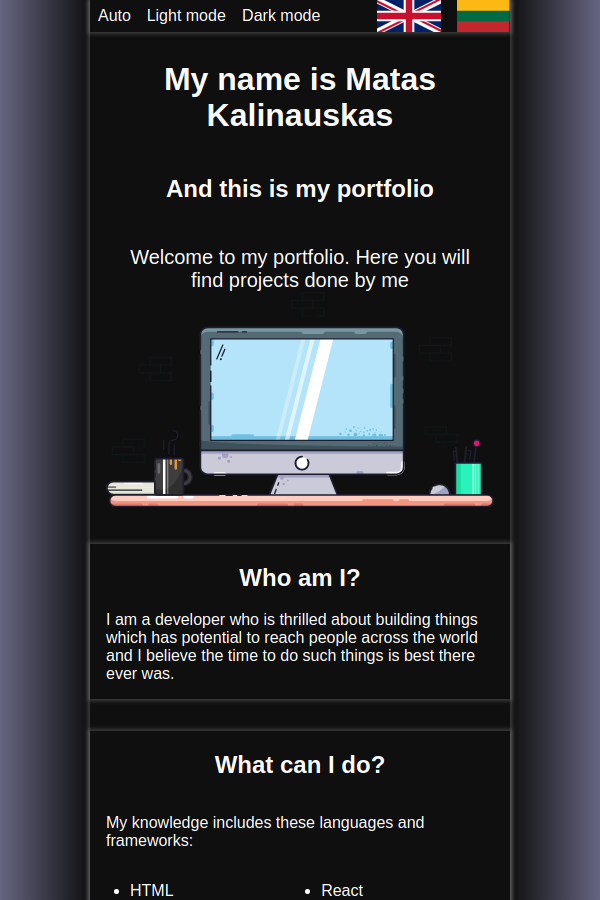
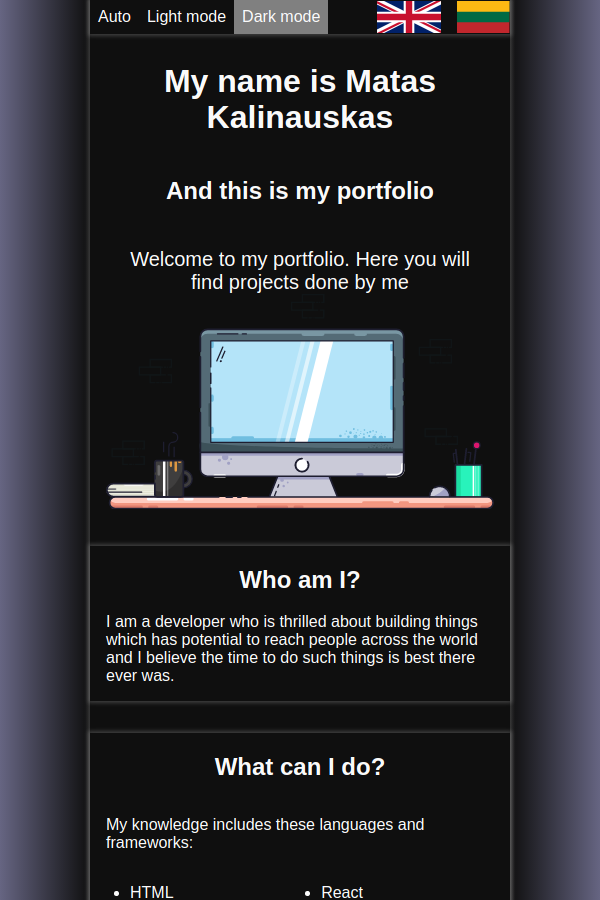
Added a way to discern which style is active, minor fixes

diff --git a/src/App.js b/src/App.js
@@ -18,6 +18,8 @@ class App extends React.Component {
     this.state={
       lang: 'en',
       style: '',
+      isAuto: false,
+      activeStyle: '',
       text: {
         "settingsBar": {},
         "header": {},
@@ -62,7 +64,7 @@ class App extends React.Component {
 
   setAutoStyle = () => {
     const date = new Date();
-    if ((date.getHours() > 7) && (date.getHours() < 22)){
+    if ((date.getHours() > 7) && (date.getHours() < 18)){
       this.setStyle('light', true);
     } else {
       this.setStyle('dark', true);
@@ -71,10 +73,10 @@ class App extends React.Component {
   
   setStyle(style, isAuto=false) {
     if (!isAuto) {
-      this.setState({style: style});
+      this.setState({style: style, isAuto: false});
       localStorage.setItem('style', style);
     } else {
-      this.setState({style: style});
+      this.setState({style: style, isAuto: true});
       localStorage.setItem('style', 'auto');
     }
 
@@ -92,21 +94,19 @@ class App extends React.Component {
 
     if ((style === 'light' || style ==='dark')) {
       this.setStyle(style);
-    } else if (style === 'auto') {
-      this.setAutoStyle();
     } else {
-      this.setStyle('light');
+      this.setAutoStyle();
     }
   }
   
   
   render () {
-    const {text, style} = this.state; 
+    const {text, style, isAuto} = this.state; 
     return (
       <ThemeProvider theme={ style === 'light' ? lightStyle : darkStyle}>
         <GlobalStyle />
         <div className="App w-70-ns center mw12 shadow">
-          <SettingsBar settingsText={text.settingsBar} onChangeLanguageUK={this.onChangeLanguageUK} 
+          <SettingsBar settingsText={text.settingsBar} style={style} auto={isAuto} onChangeLanguageUK={this.onChangeLanguageUK} 
           onChangeLanguageLT={this.onChangeLanguageLT} onChangeStyleLight={this.onChangeStyleLight}
           onChangeStyleDark={this.onChangeStyleDark} onChangeStyleAuto={this.onChageStyleAuto}/>
           <Header headerText={text.header}/>

diff --git a/src/components/SettingsBar/SettingsBar.js b/src/components/SettingsBar/SettingsBar.js
@@ -3,18 +3,20 @@ import './SettingsBar.css';
 import flagUK from './Flag_of_the_United_Kingdom.svg';
 import flagLT from './Flag_of_Lithuania.svg'
 
-const SettingsBar = ({settingsText, onChangeLanguageUK, onChangeLanguageLT, onChangeStyleLight, onChangeStyleDark, onChangeStyleAuto}) => {
-  const active = 'auto';
+const SettingsBar = ({settingsText, style, auto, onChangeLanguageUK, onChangeLanguageLT, onChangeStyleLight, onChangeStyleDark, onChangeStyleAuto}) => {
+  const isAuto = (auto) ? 'active' : '';
+  const isLight = ((!auto) && (style === 'light')) ? 'active' : '';
+  const isDark = ((!auto) && (style === 'dark')) ? 'active' : '';
   return (
-    <div id='SettingsBar' className='tr flex flex-wrap items-center shadow'>
-      <div className='flex flex-wrap mr-auto'>
-        <p onClick={onChangeStyleAuto}>Auto</p>
-        <p onClick={onChangeStyleLight}>{settingsText.light}</p>
-        <p onClick={onChangeStyleDark}>{settingsText.dark}</p>
-      </div>
-      <div className='ml-auto h2'>
+    <div id='SettingsBar' className='tr flex flex-row-reverse flex-wrap items-center shadow'>
+      <div className='ml-auto height-2'>
         <img src={flagUK} className='pointer' alt='Flag of the United Kingdom' onClick={onChangeLanguageUK}/> 
         <img src={flagLT} className='pointer' alt='Flag of Lithuania' onClick={onChangeLanguageLT}/>
+      </div>
+      <div className='flex flex-wrap mr-auto'>
+        <p className={isAuto} onClick={onChangeStyleAuto}>Auto</p>
+        <p className={isLight} onClick={onChangeStyleLight}>{settingsText.light}</p>
+        <p className={isDark} onClick={onChangeStyleDark}>{settingsText.dark}</p>
       </div>
     </div>
   )

diff --git a/src/components/Contact/Contact.js b/src/components/Contact/Contact.js
@@ -17,12 +17,12 @@ const Contact = ({contactText}) => {
         <a data-aos='fade-left' data-aos-delay='100' data-aos-anchor='#contact-form' 
         className='button-blue grow'
         href='mailto:mkalinauskas1993@gmail.com'>
-        <img src={GmailLogo} alt='Gmail logo' height='14px'/> mkalinauskas1993@gmail.com</a><br/>
+        <img src={GmailLogo} alt='Gmail logo'/> mkalinauskas1993@gmail.com</a><br/>
         <a data-aos='fade-left' data-aos-delay='200' data-aos-anchor='#contact-form' 
         className='button-blue grow' 
         href="https://www.linkedin.com/in/matas-kalinauskas-a6b786b3/" 
         target="_blank" rel="noopener noreferrer">
-        <img src={LILogo} alt='LinkedIn logo' height='14px'/> LinkedIn</a>
+        <img src={LILogo} alt='LinkedIn logo'/> LinkedIn</a>
       </div>
     </article>
   )

diff --git a/src/components/Style/Style.js b/src/components/Style/Style.js
@@ -1,13 +1,14 @@
 export const lightStyle = {
   body: 'linear-gradient(90deg, rgba(102,101,130,1) 0%, rgba(234,234,247,1) 15%, rgba(234,234,247,1) 85%, rgba(102,101,130,1) 100%)',
   text: '#363537',
-  // settingsBar: 'linear-gradient(90 deg, rgba(234,234,247,1) -3%, rgba(102,101,130,1) 5%, rgba(102,101,130,1) 95%, rgba(234,234,247,1) 103%)'
-  shadow: '0px 0px 4px 2px rgba( 0, 0, 0, 0.2 )'
+  shadow: '0px 0px 4px 2px rgba( 0, 0, 0, 0.2 )',
+  active: 'lightgreen'
 }
 
 export const darkStyle = {
   body: 'linear-gradient(90deg, rgba(102,101,130,1) 0%, rgba(15,15,15,1) 15%, rgba(15,15,15,1) 85%, rgba(102,101,130,1) 100%)',
   text: '#FAFAFA',
   settingsBar: 'rgba(15,15,15,1)',
-  shadow: '0px 0px 4px 2px rgba( 255, 255, 255, 0.2 )'
+  shadow: '0px 0px 4px 2px rgba( 255, 255, 255, 0.2 )',
+  active: 'gray'
 }

diff --git a/src/components/SettingsBar/SettingsBar.css b/src/components/SettingsBar/SettingsBar.css
@@ -7,14 +7,41 @@
   padding-left: 0.5rem;
   margin-top: 0;
   margin-bottom: 0;
-  padding-top: auto;
-  padding-bottom: auto;
+  padding-top: 0.5rem;
+  padding-bottom: 0.5rem;
   cursor: pointer;
-
 }
 
 #SettingsBar img {
   max-height: 2rem;
   max-width: auto;
   margin-left: 1rem;
+}
+
+.height-2 {
+  height: 2rem;
+}
+
+@media screen and (max-width: 43em){
+  #SettingsBar {
+    min-height: 1.3rem;
+  }
+
+  #SettingsBar img {
+    max-height: 1.3rem;
+    max-width: auto;
+    margin-left: 0.7rem;
+  }
+
+  #SettingsBar p {
+    padding-right: 0.3rem;
+    padding-left: 0.3rem;
+    padding-top: 0.3rem;
+    padding-bottom: 0.3rem;
+    font-size: 0.7rem;
+  }
+
+  .height-2 {
+    height: 1.3rem;
+  }
 }

diff --git a/src/components/GlobalStyle/GlobalStyle.js b/src/components/GlobalStyle/GlobalStyle.js
@@ -10,4 +10,8 @@ export const GlobalStyle = createGlobalStyle`
   
   .shadow {
     box-shadow: ${({ theme }) => theme.shadow};
+  }
+  
+  .active {
+    background: ${({ theme }) => theme.active};
   }`

diff --git a/src/components/Contact/Contact.css b/src/components/Contact/Contact.css
@@ -26,3 +26,9 @@
 #contact .grow:hover {
 	transform: scale(1.05);
 }
+
+#contact img {
+	height: 12px;
+}
+
+
